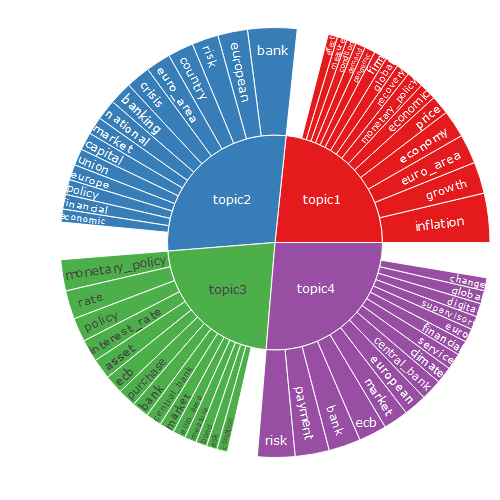
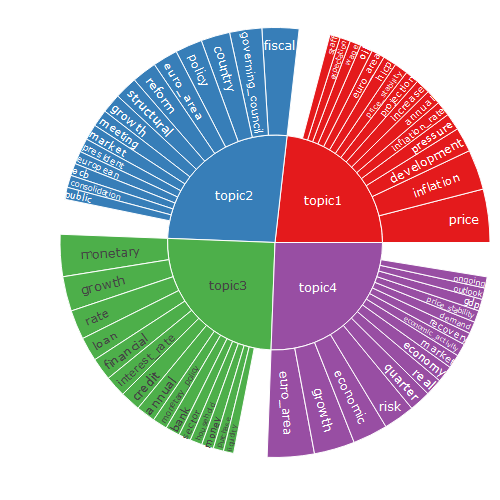
update README

diff --git a/README.md b/README.md
@@ -23,32 +23,40 @@ devtools::install_github("odelmarcelle/sentopics")
 
 ## Basic usage
 
-Using a sample of speeches from the European Central Bank, a LDA model
-is easily created from a list of tokenized texts. See
+Using a sample of press conferences from the European Central Bank, a
+LDA model is easily created from a list of tokenized texts. See
 <https://quanteda.io> for details on `tokens` input objects and
 pre-processing functions.
 
 ``` r
 library(sentopics)
-print(ECB_speeches, 2)
-# Tokens consisting of 613 documents and 2 docvars.
-# text1 :
-#  [1] "dialogue"  "world"     ""          ""          "christine" "lagarde"  
-#  [7] "president" "ecb"       ""          ""          ""          ""         
-# [ ... and 846 more ]
+print(ECB_press_conferences_tokens, 2)
+# Tokens consisting of 3,860 documents and 5 docvars.
+# 1_1 :
+#  [1] "outcome"           "meeting"           "decision"         
+#  [4] ""                  "ecb"               "general"          
+#  [7] "council"           "governing_council" "executive"        
+# [10] "board"             "accordance"        "escb"             
+# [ ... and 7 more ]
 # 
-# text2 :
-#  [1] "change"     "continuity" "law"        "keynote"    "christine" 
-#  [6] "lagarde"    "president"  "ecb"        "ecb"        "legal"     
-# [11] "conference" "frankfurt" 
-# [ ... and 865 more ]
+# 1_2 :
+#  [1] ""              "state"         "government"    "member"       
+#  [5] "executive"     "board"         "ecb"           "president"    
+#  [9] "vice"          "president"     "date"          "establishment"
+# [ ... and 13 more ]
 # 
-# [ reached max_ndoc ... 611 more documents ]
-set.seed(12)
-lda <- LDA(ECB_speeches, K = 4)
+# [ reached max_ndoc ... 3,858 more documents ]
+set.seed(123)
+lda <- LDA(ECB_press_conferences_tokens, K = 4)
 lda <- grow(lda, 100)
 lda
 # A LDA model with 4 topics. Currently grown by 100 Gibbs sampling iterations.
+# ------------------Useful methods------------------
+# grow      :Iterates the model using Gibbs sampling
+# topics    :Return the most important topic of each document
+# topWords  :Return a data.table with the top words of each topic/sentiment
+# plot      :A sunburst chart representing the estimated mixtures
+# This helpful message is displayed once per session, unless calling `print(x, extended = TRUE)`
 ```
 
 There are various way to extract results from the model: it is either
@@ -56,36 +64,50 @@ possible to directly access the estimated mixtures from the `lda` object
 or to use some helper functions.
 
 ``` r
-head(lda$theta) # The document-topic distributions
-#        topic
-# doc_id       topic1     topic2      topic3      topic4
-#   text1 0.237903226 0.27822581 0.096774194 0.387096774
-#   text2 0.007072136 0.48656294 0.036775106 0.469589816
-#   text3 0.027166882 0.28072445 0.002587322 0.689521345
-#   text4 0.813259669 0.01878453 0.164640884 0.003314917
-#   text5 0.028790787 0.36852207 0.393474088 0.209213052
-#   text6 0.872058824 0.02794118 0.097058824 0.002941176
-head(melt(lda, include_docvars = TRUE)) # The document-topic in a 'long' format & with meta-data
-#     topic        prob      .date    .id .sentiment
-#    <fctr>       <num>     <char> <char>      <num>
-# 1: topic1 0.237903226 2021-11-29  text1 -0.2516129
-# 2: topic1 0.007072136 2021-11-26  text2 -0.5030303
-# 3: topic1 0.027166882 2021-11-25  text3 -0.5135135
-# 4: topic1 0.813259669 2021-11-24  text4 -0.4813187
-# 5: topic1 0.028790787 2021-11-22  text5 -0.2320000
-# 6: topic1 0.872058824 2021-11-19  text6 -0.4139535
-topWords(lda, output = "matrix") # The most probable words per topic
-#       topic1            topic2      topic3            topic4        
-#  [1,] "inflation"       "bank"      "monetary_policy" "risk"        
-#  [2,] "growth"          "european"  "rate"            "payment"     
-#  [3,] "euro_area"       "risk"      "policy"          "bank"        
-#  [4,] "economy"         "country"   "interest_rate"   "ecb"         
-#  [5,] "price"           "euro_area" "asset"           "market"      
-#  [6,] "economic"        "crisis"    "ecb"             "european"    
-#  [7,] "monetary_policy" "banking"   "purchase"        "central_bank"
-#  [8,] "recovery"        "national"  "bank"            "climate"     
-#  [9,] "global"          "market"    "central_bank"    "service"     
-# [10,] "firm"            "capital"   "market"          "financial"
+# The document-topic distributions
+head(lda$theta) 
+#       topic
+# doc_id     topic1    topic2     topic3     topic4
+#    1_1 0.04761905 0.8095238 0.04761905 0.09523810
+#    1_2 0.03703704 0.8888889 0.03703704 0.03703704
+#    1_3 0.10000000 0.7000000 0.10000000 0.10000000
+#    1_4 0.42857143 0.4285714 0.07142857 0.07142857
+#    1_5 0.06666667 0.7333333 0.13333333 0.06666667
+#    1_6 0.11111111 0.6666667 0.11111111 0.11111111
+# The document-topic in a 'long' format & optionally with meta-data
+head(melt(lda, include_docvars = FALSE))
+#     topic    .id       prob
+#    <fctr> <char>      <num>
+# 1: topic1    1_1 0.04761905
+# 2: topic1    1_2 0.03703704
+# 3: topic1    1_3 0.10000000
+# 4: topic1    1_4 0.42857143
+# 5: topic1    1_5 0.06666667
+# 6: topic1    1_6 0.11111111
+# The most probable words per topic
+topWords(lda, output = "matrix") 
+#       topic1            topic2              topic3           
+#  [1,] "price"           "fiscal"            "monetary"       
+#  [2,] "inflation"       "governing_council" "growth"         
+#  [3,] "development"     "country"           "rate"           
+#  [4,] "pressure"        "policy"            "loan"           
+#  [5,] "inflation_rate"  "euro_area"         "financial"      
+#  [6,] "annual"          "reform"            "interest_rate"  
+#  [7,] "increase"        "structural"        "credit"         
+#  [8,] "projection"      "growth"            "annual"         
+#  [9,] "price_stability" "meeting"           "monetary_policy"
+# [10,] "hicp"            "market"            "bank"           
+#       topic4             
+#  [1,] "euro_area"        
+#  [2,] "growth"           
+#  [3,] "economic"         
+#  [4,] "risk"             
+#  [5,] "quarter"          
+#  [6,] "real"             
+#  [7,] "economy"          
+#  [8,] "market"           
+#  [9,] "economic_activity"
+# [10,] "recovery"
 ```
 
 Two visualization are also implemented: `plot_topWords()` display the
@@ -103,17 +125,32 @@ not already present in the `tokens` input), time series functions allows
 to study the evolution of topic proportions and related sentiment.
 
 ``` r
-sentopics_date(lda) <- ECB_speeches$.date
-sentopics_sentiment(lda) <- ECB_speeches$.sentiment
-head(proportion_topics(lda, period = "month"))
-#                topic1    topic2     topic3    topic4
-# 2016-01-01 0.13096229 0.3264452 0.10138001 0.4412125
-# 2016-02-01 0.23195503 0.3628055 0.21731416 0.1879253
-# 2016-03-01 0.09263318 0.4573727 0.09186358 0.3581305
-# 2016-04-01 0.23132782 0.3038253 0.29362972 0.1712172
-# 2016-05-01 0.30935122 0.3196261 0.24010683 0.1309159
-# 2016-06-01 0.18192363 0.3264466 0.16706162 0.3245681
-plot_sentiment_breakdown(lda, period = "day", rolling_window = 90)
+sentopics_date(lda)  |> head(2)
+#       .id      .date
+#    <char>     <Date>
+# 1:    1_1 1998-06-09
+# 2:    1_2 1998-06-09
+sentopics_sentiment(lda) |> head(2)
+#       .id  .sentiment
+#    <char>       <num>
+# 1:    1_1 -0.01470588
+# 2:    1_2 -0.02500000
+proportion_topics(lda, period = "month") |> head(2)
+#               topic1    topic2    topic3    topic4
+# 1998-06-01 0.1233053 0.6463265 0.1139985 0.1163698
+# 1998-07-01 0.1262036 0.4980435 0.2047400 0.1710129
+plot_sentiment_breakdown(lda, period = "quarter", rolling_window = 3)
 ```
 
 <img src="man/figures/README-series-1.png" width="100%" />
+
+## Advanced usage
+
+Feel free to refer to the vignettes of the package for a more extensive
+introduction to the features of the package. Because the package is not
+yet on CRAN, you’ll have to build the vignettes locally.
+
+``` r
+devtools::install_github("odelmarcelle/sentopics", build_vignettes = TRUE)
+vignette(package = "sentopics")
+```
